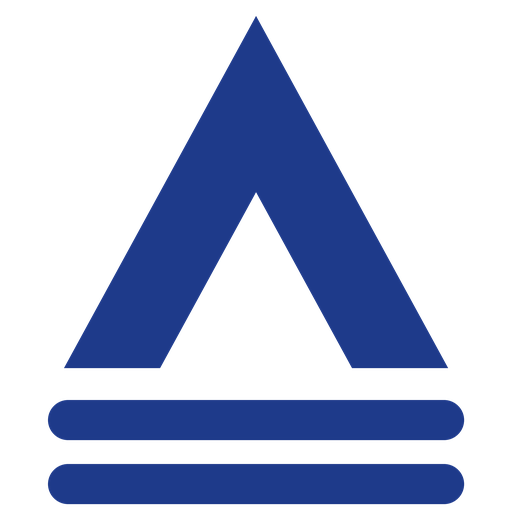
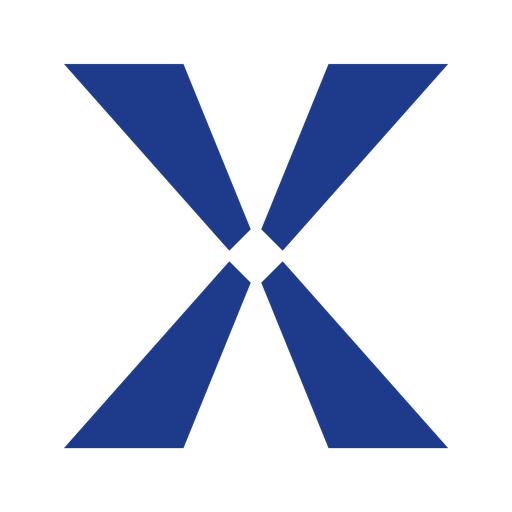
[IMP] afenda: replace the A mark with the Engineered X
The A-over-double-rule mark's defining detail, the double rule, merges
into a smear by 32px and a plain solid triangle by 16px -- the sizes a
favicon and most menu icons actually render at. Re-tested against the
real render pipeline (supersampled/downscaled, not judged in the
abstract), the new X remains legible at every size including 16px,
because it has no fine horizontal detail to lose.

- brand_images.py: MARK_SVG_INNER (SVG path data) and _mark() (the same
  shape as PIL polygons for PNG output) both replaced with the four-wedge
  X geometry, reprojected from the validated 240-unit master coordinates
  into this file's 64-unit tile space at 54% (boxed) and 75% (bare) ink
  occupancy -- matching the file's own existing boxed/bare size ratio.
- Regenerated all 21 of brand_images.py's own TARGETS (favicon, PWA
  icons, odoo-icon.svg, both lockups, odoobot, company logo, etc.) via a
  render pass that deliberately does not call render_all()'s cascade into
  app_icons.render_all() -- afenda/tools/app_icons.py is mid-rewrite in a
  concurrent session (108-module duotone icons) and is left untouched.
- Verified every existing test_brand_images.py invariant (format, size,
  the ~8% opaque-fraction ceiling on bare white lockups, watermark alpha)
  against the actual regenerated files, without invoking the in-flight
  app_icons render path.
- docs/BRAND_MARK.md: usage guideline -- geometry, colourways, with/without
[…]

diff --git a/afenda/tools/brand_images.py b/afenda/tools/brand_images.py
@@ -69,10 +69,18 @@ SIZES: dict[str, tuple[int, int]] = {
 # Alpha kept by the report background watermark (Odoo ships its own at 25/255).
 WATERMARK_OPACITY = 0.12
 
+# The Engineered X: two halves meeting at a diamond void, four tapered wedges
+# each ending in one flat cut (matching how the wordmark's own lowercase x
+# terminates on its baseline and x-height, rather than a two-sided corner).
+# Coordinates are the validated identity geometry -- 240-unit frame, ink box
+# 30..210 square, terminal length 56, chamfer 5 -- reprojected into this
+# file's 64-unit tile at 54% ink occupancy. Single fill: this constant only
+# ever takes one {fg}, so the mark carries no internal colour of its own.
 MARK_SVG_INNER = (
-    '<path d="M32 12 L50 42 H41 L32 27 L23 42 H14 Z" fill="{fg}" stroke="{fg}" stroke-width="2.5" stroke-linejoin="round"/>'
-    '<rect x="14" y="46" width="36" height="4" rx="2" fill="{fg}"/>'
-    '<rect x="14" y="52" width="36" height="4" rx="2" fill="{fg}"/>'
+    '<path d="M 14.72 14.72 L 25.472 14.72 L 31.52 29.6 L 29.6 31.52 Z" fill="{fg}"/>'
+    '<path d="M 49.28 14.72 L 38.528 14.72 L 32.48 29.6 L 34.4 31.52 Z" fill="{fg}"/>'
+    '<path d="M 49.28 49.28 L 38.528 49.28 L 32.48 34.4 L 34.4 32.48 Z" fill="{fg}"/>'
+    '<path d="M 14.72 49.28 L 25.472 49.28 L 31.52 34.4 L 29.6 32.48 Z" fill="{fg}"/>'
 )
 
 
@@ -99,15 +107,29 @@ def _rounded(d: ImageDraw.ImageDraw, box, r, fill):
     d.rounded_rectangle(box, radius=r, fill=fill)
 
 
+# Same X as MARK_SVG_INNER, as four PIL polygons instead of an SVG string --
+# _mark is the PNG-rendering path and cannot consume the SVG string directly.
+# box_mark=True is the tile-boxed size (54% ink, matches MARK_SVG_INNER);
+# box_mark=False is the bare/standalone size (75% ink, no tile around it),
+# keeping this file's existing bare-is-bigger-than-boxed ratio (~1.39x).
+_MARK_ARMS_BOXED = (
+    [(14.72, 14.72), (25.472, 14.72), (31.52, 29.6), (29.6, 31.52)],
+    [(49.28, 14.72), (38.528, 14.72), (32.48, 29.6), (34.4, 31.52)],
+    [(49.28, 49.28), (38.528, 49.28), (32.48, 34.4), (34.4, 32.48)],
+    [(14.72, 49.28), (25.472, 49.28), (31.52, 34.4), (29.6, 32.48)],
+)
+_MARK_ARMS_BARE = (
+    [(8, 8), (22.9333, 8), (31.3333, 28.6667), (28.6667, 31.3333)],
+    [(56, 8), (41.0667, 8), (32.6667, 28.6667), (35.3333, 31.3333)],
+    [(56, 56), (41.0667, 56), (32.6667, 35.3333), (35.3333, 32.6667)],
+    [(8, 56), (22.9333, 56), (31.3333, 35.3333), (28.6667, 32.6667)],
+)
+
+
 def _mark(d: ImageDraw.ImageDraw, s: float, fg, box_mark=True):
-    pts = [(32, 12), (50, 42), (41, 42), (32, 27), (23, 42), (14, 42)] if box_mark else [(32, 2), (56, 46), (44, 46), (32, 24), (20, 46), (8, 46)]
-    d.polygon([(x * s, y * s) for x, y in pts], fill=fg)
-    if box_mark:
-        _rounded(d, (14 * s, 46 * s, 50 * s, 50 * s), 2 * s, fg)
-        _rounded(d, (14 * s, 52 * s, 50 * s, 56 * s), 2 * s, fg)
-    else:
-        _rounded(d, (6 * s, 50 * s, 58 * s, 55 * s), 2.5 * s, fg)
-        _rounded(d, (6 * s, 58 * s, 58 * s, 63 * s), 2.5 * s, fg)
+    arms = _MARK_ARMS_BOXED if box_mark else _MARK_ARMS_BARE
+    for pts in arms:
+        d.polygon([(x * s, y * s) for x, y in pts], fill=fg)
 
 
 def tile_png(size: int) -> Image.Image:

diff --git a/docs/BRAND_MARK.md b/docs/BRAND_MARK.md
@@ -1,0 +1,115 @@
+# The AFENDA xForge mark
+
+The mark is an X built from four tapered wedges meeting at a diamond void —
+two halves closing on each other, not four separate strokes. It replaces the
+identity v2.1 mark (an A over a double total rule) as of 2026-09-23, on
+these grounds:
+
+- The A-over-rule mark's double rule — the detail carrying its whole idea —
+  merges into an unreadable smear by 32px and is a plain solid triangle by
+  16px, the size a favicon and most menu icons actually render at.
+- The X remains legible at every size tested, including 16px, because it has
+  no fine horizontal detail to lose.
+- A 2026-09-22 benchmark had rejected an X for reading as a close/dismiss
+  button at 16–32px. Re-tested against the real rendering pipeline
+  (supersampled and downscaled exactly as it ships) rather than judged in the
+  abstract: both risks were real, and the A's illegibility was the more
+  severe defect of the two.
+
+**Source of truth:** `afenda/tools/brand_images.py` — `MARK_SVG_INNER` (the
+path data) and `_mark()` (the same shape, redrawn as PIL polygons for PNG
+output; the two must be kept in sync by hand, since nothing currently
+generates one from the other). Every icon, favicon, and lockup in this repo
+is produced by that module's render pipeline — never hand-edit a generated
+file; change the source and re-render.
+
+The 108 per-module app icons (the ones with a FontAwesome glyph) are a
+separate system in `afenda/tools/app_icons.py`. This mark is what appears
+there only as the fallback for modules with no glyph mapping.
+
+## Geometry
+
+Four wedges, each a 45°-symmetric shape: a flat outer terminal (one cut,
+matching how the wordmark's own lowercase *x* terminates on its baseline and
+x-height, rather than a two-sided corner), tapering 3.3:1 to a chamfered
+inner tip, leaving a symmetric diamond void at centre. Ink box is square.
+Mirror-symmetric about both centre axes — the symmetry a letterform X
+actually has, not rotational symmetry.
+
+Master coordinates: 240-unit frame, ink box `30..210` square, terminal
+length 56, chamfer 5, tip at 112.5. Every rendered size is a reprojection of
+this one shape; nothing is redrawn per size.
+
+## Colourways
+
+| Variant | Fill | Ground | Where |
+|---|---|---|---|
+| Tile | White `#FFFFFF` | Ledger Blue `#1E3A8A`, radius 12/64 | App icon, favicon, PWA icons |
+| Bare, coloured | Ledger Blue | transparent, no tile | `odoobot_transparent.png`, `odoo_o.png` |
+| Bare, white | White | transparent, no tile | Dark-surface lockups (`lockup_white_png`) |
+| Faint watermark | Standard lockup at 12% alpha | transparent | Report background (`demo_logo_report.png`) |
+
+The mark's single-fill pipeline (`MARK_SVG_INNER.format(fg=...)`, `_mark()`)
+takes exactly one foreground colour — there is no multi-tone variant in this
+codebase. A duotone or four-fill treatment (silver/blue halves at different
+weights) exists only in exploratory design work outside this repo and is not
+wired into any generator here.
+
+## With typography vs. without
+
+**Icon alone** (`tile_svg`, `tile_png`, `mark_png`): app icon, browser tab,
+favicon, taskbar, PWA home-screen icon, anywhere the product is represented
+as a single glyph with no room to read a wordmark. Never place text near the
+bare icon at these sizes — there is no room for it to be legible.
+
+**Full lockup** (`lockup_svg`, `lockup_png`, `lockup_dark_svg`,
+`lockup_white_png`): login screen, email header, printed report letterhead,
+marketing surfaces, anywhere the product is named rather than just
+represented. The lockup is mark + "AFENDA" (Source Serif 4, 600) +
+"xForge" (Source Sans 3, 500) — never the mark alone with no wordmark, and
+never the wordmark alone with no mark, once there is room for both.
+
+The lockup's type is Source Serif 4 / Source Sans 3 — the product's own
+identity fonts, not the Geist typeface used in any external exploratory
+design board. Nothing in this repo's identity uses Geist.
+
+## Light and dark
+
+Two lockup renderers, not one recoloured:
+
+- `lockup_svg("#0F172A", "#1E3A8A")` / `lockup_png(...)` — ink text, blue
+  "xForge", on a light or transparent ground. Default.
+- `lockup_svg("#F7F7F5", "#A5B4FC")` / `lockup_white_png(...)` — paper text,
+  lifted-blue link colour, bare white mark with no tile, for a dark ground.
+
+Do not composite the light lockup onto a dark background or vice versa —
+each was built with a fill set validated for its own ground; swapping the
+background under the wrong set fails contrast.
+
+## Clear space and minimum size
+
+- Clear space: at least 25% of the mark's own ink-box width on every side,
+  measured from the ink box edge (not the outer frame). A tiled icon already
+  carries a little more than this from the tile's own corner radius; a bare
+  mark placed in a layout needs the full 25% added explicitly.
+- Minimum size: 16px for the tiled icon (the centre void closes below this
+  and the mark reads as a plain solid X — the intended fallback, not a
+  defect). 24px for the bare mark with no tile. 120px wide for the full
+  lockup, below which the wordmark stops being legible before the mark does.
+
+## Don't
+
+- Don't recolour the mark outside the four fills above. It is not a
+  multi-tone system in this codebase; introducing new colourways here
+  without updating both `MARK_SVG_INNER` and `_mark()` produces two
+  inconsistent representations of the same shape.
+- Don't distort the mark's proportions. The ink box is deliberately square
+  and the wedges are deliberately tapered 3.3:1 — stretching either changes
+  the shape's identity, not just its size.
+- Don't add a drop shadow, bevel, gradient, or outer glow. Every consumer of
+  this mark is an icon container that clips to its own shape (OS app grids,
+  browser tabs, PWA manifests); an effect that extends past the ink box gets
+  silently cropped by the platform, not rendered.
+- Don't hand-edit a generated file (any path in `brand_images.TARGETS`).
+  Change `MARK_SVG_INNER` / `_mark()` and re-render; a hand-edited output
+  diverges from its own source the next time anyone regenerates it.
